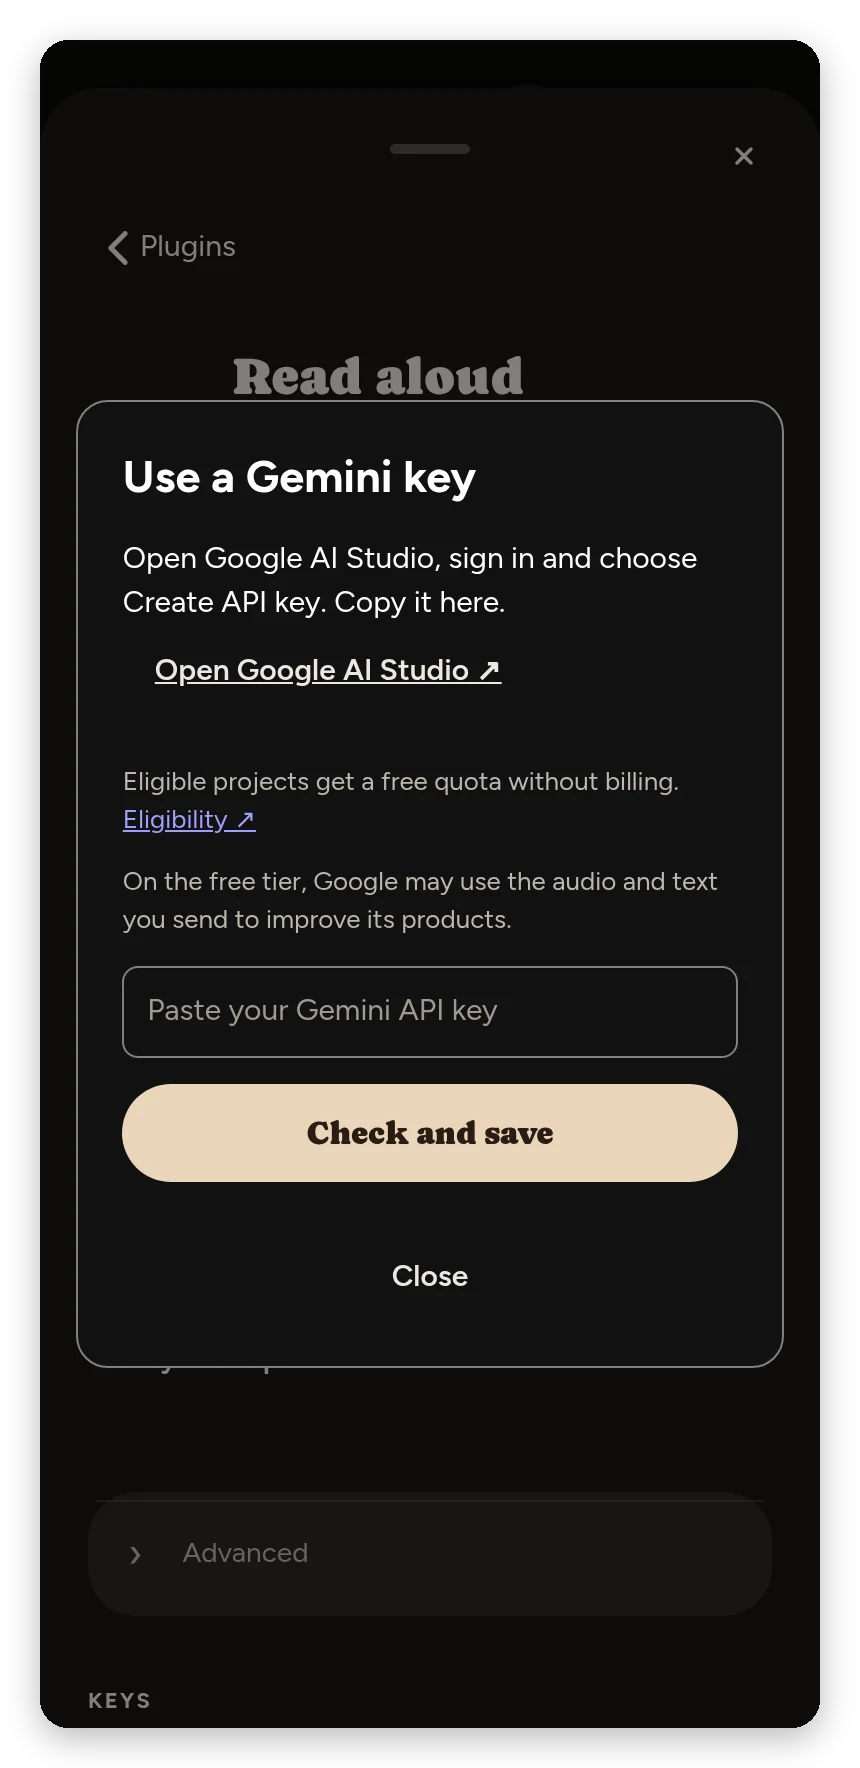
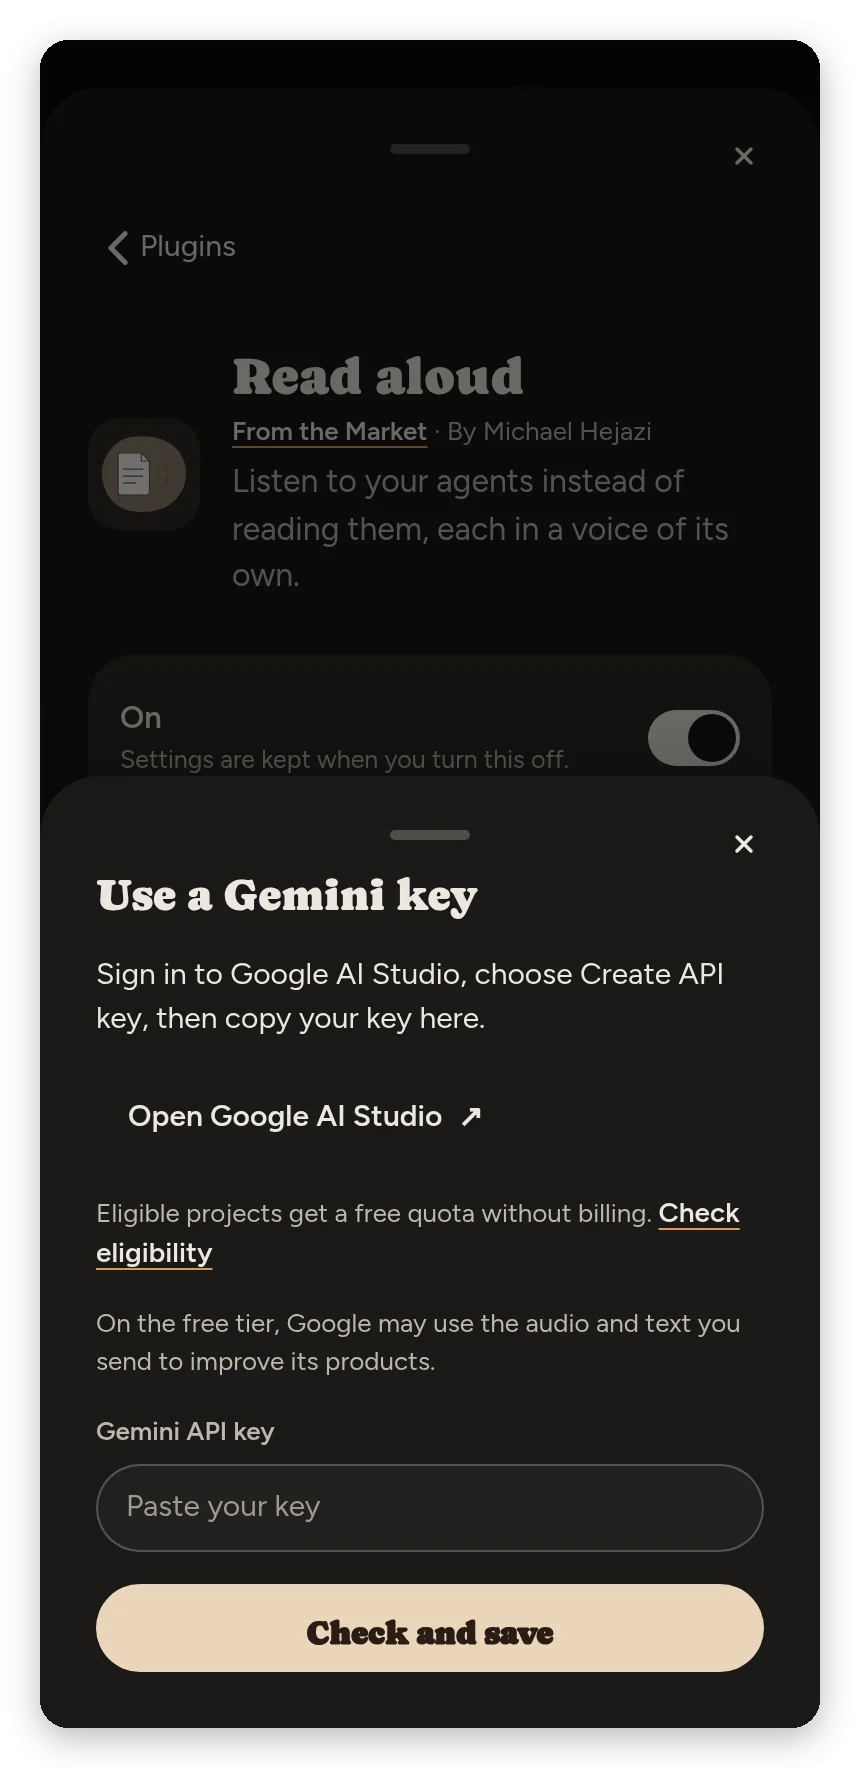
Use the shared key guide on browser fallback

diff --git a/page/guide.js b/page/guide.js
@@ -1,43 +1,67 @@
 const labels = { google: 'Using Google', openai: 'Using OpenAI', browser: 'Using this browser' }
 
 export function speechGuide(loam, plugin, benefit) {
-  const { h, host } = loam.ui
-  let dialog
-  loam.places.app.overlay.add({ id: plugin + '.key-guide', render: () => dialog ?? null })
-  loam.events.on('rendered', () => { if (dialog?.isConnected && !dialog.open) dialog.showModal() })
-  function close() { dialog?.close() }
+  const { h, host, icon, menuSurface } = loam.ui
+  let surface = null
+
+  loam.places.app.overlay.add({ id: plugin + '.key-guide', render: () => {
+    if (surface) surface.toggleAttribute('data-menu-centered', (globalThis.visualViewport?.width ?? globalThis.innerWidth) >= 700)
+    return surface
+  } })
+
+  function close() {
+    if (!surface) return
+    const field = surface.querySelector('input')
+    if (field) field.value = ''
+    surface = null
+    host.schedule()
+  }
+
   function open() {
-    if (dialog) return
-    const key = h('input', { type: 'password', required: true, autocomplete: 'off', spellcheck: false, placeholder: 'Paste your Gemini API key', 'aria-label': 'Gemini API key' })
-    const status = h('p', { class: 'note', role: 'status' })
-    const save = h('button', { type: 'submit', class: 'primary', text: 'Check and save' })
-    const form = h('form', { onsubmit: async event => {
+    if (surface) return
+    const input = h('input', { class: 'field-input', type: 'password', required: true, autocomplete: 'off', spellcheck: false, placeholder: 'Paste your key' })
+    const status = h('p', { class: 'note keys-check', role: 'status' })
+    const save = h('button', { type: 'submit', class: 'pillbtn primary', text: 'Check and save' })
+    const form = h('form', { class: 'keys-form speech-key-form', onsubmit: async event => {
       event.preventDefault()
       if (save.disabled) return
-      const value = key.value.trim()
-      if (!value) { key.focus(); return }
-      key.value = ''; save.disabled = true; status.textContent = 'Checking with Google…'
+      const value = input.value.trim()
+      if (!value) { input.focus(); return }
+      input.value = ''
+      save.disabled = true
+      status.textContent = 'Checking with Google…'
       try {
         const out = await host.api('PUT', '/keys/google', { values: { GEMINI_API_KEY: value } })
         if (!out.checked?.ok) throw new Error(out.checked?.why || 'Google could not verify the key.')
         loam.events.emit('speech.keys.changed', {})
-        key.hidden = save.hidden = true
-        status.textContent = 'Google accepted your key. It’s saved in Connections.'
-      } catch (error) { status.textContent = error.body?.error || error.message }
-      finally { save.disabled = false }
-    } }, h('h2', { text: 'Use a Gemini key' }),
-      h('p', { text: 'Open Google AI Studio, sign in and choose Create API key. Copy it here.' }),
-      h('a', { class: 'pillbtn content-mark', href: 'https://aistudio.google.com/apikey', target: '_blank', rel: 'noopener noreferrer', text: 'Open Google AI Studio ↗' }),
-      h('p', { class: 'note' }, 'Eligible projects get a free quota without billing. ', h('a', { href: 'https://aistudio.google.com/docs/terms#use-restrictions', target: '_blank', rel: 'noopener noreferrer', text: 'Eligibility ↗' })),
-      h('p', { class: 'note', text: 'On the free tier, Google may use the audio and text you send to improve its products.' }),
-      key, save, status, h('button', { type: 'button', class: 'pillbtn', text: 'Close', onclick: close }))
-    dialog = h('dialog', { key: plugin + '.key-guide', class: 'speech-key-guide', 'aria-label': 'Use a Gemini key' }, form)
-    const current = dialog
-    current.addEventListener('close', () => { key.value = ''; current.remove(); if (dialog === current) dialog = null; host.schedule() }, { once: true })
+        if (surface !== current) return
+        const done = h('button', { class: 'pillbtn primary', type: 'button', text: 'Done', onclick: close })
+        form.replaceChildren(h('div', { class: 'speech-key-success', role: 'status' },
+          h('span', { class: 'speech-key-check', 'aria-hidden': 'true' }, icon.check(22)),
+          h('h3', { class: 'display', text: 'Google is connected' }),
+          h('p', { class: 'note', text: 'Your shared key is saved in Connections. Both speech plugins can use it.' })), done)
+        done.focus({ preventScroll: true })
+      } catch (error) {
+        status.textContent = error.body?.error || error.message
+        save.disabled = false
+      }
+    } },
+    h('p', { text: 'Sign in to Google AI Studio, choose Create API key, then copy your key here.' }),
+    h('a', { class: 'pillbtn speech-studio', href: 'https://aistudio.google.com/apikey', target: '_blank', rel: 'noopener noreferrer' },
+      'Open Google AI Studio', h('span', { 'aria-hidden': 'true', text: '↗' })),
+    h('p', { class: 'note' }, 'Eligible projects get a free quota without billing. ',
+      h('a', { class: 'loginlink', href: 'https://aistudio.google.com/docs/terms#use-restrictions', target: '_blank', rel: 'noopener noreferrer', text: 'Check eligibility' })),
+    h('p', { class: 'note', text: 'On the free tier, Google may use the audio and text you send to improve its products.' }),
+    h('label', { class: 'keys-field' }, h('span', { class: 'keys-field-label', text: 'Gemini API key' }), input), status, save)
+    const current = menuSurface(h('section', { key: plugin + '.key-guide', class: 'speech-key-guide', 'aria-modal': 'true' }, form),
+      { title: 'Use a Gemini key', close, width: 424 })
+    surface = current
     host.schedule()
   }
-  const link = () => h('button', { class: 'speech-key-link', type: 'button', text: benefit, onclick: open })
-  const settings = provider => h('section', { class: 'rows speech-provider' },
-    h('strong', { role: 'status', text: labels[provider] ?? 'Checking speech provider…' }), link())
+
+  const link = () => h('button', { class: 'quietlink speech-key-link', type: 'button', text: benefit, onclick: open })
+  const settings = (provider, active = provider) => h('section', { class: 'rows speech-provider' },
+    h('strong', { class: 'setrow-title', role: 'status', text: labels[active] ?? 'Checking speech provider…' }),
+    provider === 'browser' ? link() : null)
   return { open, close, link, settings }
 }

diff --git a/page/style.css b/page/style.css
@@ -347,11 +347,16 @@
 .file-speech .file-speech-close { color:var(--latte-foam-ink); }
 [data-menu-surface].voice-menu { width:300px; }
 
-.speech-provider { display: grid; gap: .35rem; }
-.speech-key-link { display: block; width: fit-content; border: 0; background: transparent; color: var(--muted, currentColor); font: inherit; font-size: .82rem; padding: .25rem 0; text-align: left; text-decoration: underline; text-underline-offset: .2em; cursor: pointer; }
-.speech-key-guide { color: var(--ink, CanvasText); background: var(--paper, Canvas); border: 1px solid var(--line, GrayText); border-radius: 16px; width: min(25rem, 92vw); max-height: 90dvh; padding: 1.4rem; }
-.speech-key-guide::backdrop { background: rgb(0 0 0 / .45); }
-.speech-key-guide form { display: grid; gap: .8rem; }
-.speech-key-guide :is(h2,p) { margin: 0; }
-.speech-key-guide input { color: inherit; background: transparent; padding: .7rem; border: 1px solid var(--line, GrayText); border-radius: 8px; }
-.speech-key-guide [hidden] { display: none; }
+.speech-provider { padding: var(--space-lg) var(--space-xl); gap: var(--space-xs); }
+.speech-key-link { width: fit-content; text-align: start; }
+.speech-key-form { padding: 0 var(--space-xs) var(--space-xs); gap: var(--space-lg); }
+.speech-key-form p, .speech-key-success h3 { margin: 0; }
+.speech-key-form > p:first-child { font-size: 15px; line-height: 1.5; }
+.speech-key-form .speech-studio { display: inline-flex; align-self: flex-start; align-items: center; justify-content: center; gap: var(--space-sm); text-decoration: none; }
+.speech-key-form .keys-check:empty { display: none; }
+.speech-key-success { display: grid; justify-items: center; gap: var(--space-md); padding: var(--space-lg); text-align: center; }
+.speech-key-check { display: grid; place-items: center; width: 44px; height: 44px; border-radius: 50%; background: var(--latte-espresso); color: var(--latte-espresso-ink); }
+@media (prefers-reduced-motion: no-preference) {
+  .speech-key-check { animation: speechKeyConnected 280ms var(--ease-standard) both; }
+  @keyframes speechKeyConnected { from { transform: scale(.76); opacity: 0; } to { transform: scale(1); opacity: 1; } }
+}

diff --git a/PLUGIN.md b/PLUGIN.md
@@ -1,7 +1,7 @@
 ---
 id: read-aloud
 name: Read aloud
-version: 1.2.0
+version: 1.2.1
 author: Michael Hejazi
 api: 0
 kind: [extension]
@@ -44,7 +44,7 @@ Press the speaker under a reply or in Files and choose Listen. With no key, the 
 
 ## What you need, and what leaves your server
 
-Loam uses a Google key first, then an OpenAI key, then the browser. A provider error stays with that provider. Open Settings › Plugins › Read aloud to see the provider. Follow the free Gemini key link, sign in to Google AI Studio, create a key and paste it in the guide. Loam checks it and saves it in Settings › Connections › API keys for both plugins.
+Loam uses a Google key first, then an OpenAI key, then the browser. A provider error stays with that provider. Open Settings › Plugins › Read aloud to see the provider. When the plugin is using this browser, follow the free Gemini key link, sign in to Google AI Studio, create a key and paste it in the guide. Loam checks it and saves it in Settings › Connections › API keys for both plugins.
 
 Eligible projects get a free quota without setting up billing. Google may use free-tier audio and text to improve its products. Check [availability](https://aistudio.google.com/docs/available-regions) and [your limits](https://aistudio.google.com/rate-limit).
 

diff --git a/README.md b/README.md
@@ -36,7 +36,7 @@ you chose for that agent. Your notes in Files can be read aloud too.
 
 Press the speaker under a reply or in Files and choose Listen. With no key, the player uses your browser’s voice and reads the fixed skip notices for tables and diagrams. A server key adds Brief and generated descriptions.
 
-Open Settings › Plugins › Read aloud to see the provider. Follow the free Gemini key link, sign in to Google AI Studio, create a key and paste it in the guide. Loam checks it and saves it in Settings › Connections › API keys for both plugins.
+Open Settings › Plugins › Read aloud to see the provider. When the plugin is using this browser, follow the free Gemini key link, sign in to Google AI Studio, create a key and paste it in the guide. Loam checks it and saves it in Settings › Connections › API keys for both plugins.
 
 ## What you need, and what leaves your server
 
@@ -75,7 +75,7 @@ is instant. Agent voices are on each agent's profile.
 In Settings › Plugins, with its link:
 
 ```
-https://github.com/michaelhejazi/loam-read-aloud/tree/v1.2.0
+https://github.com/michaelhejazi/loam-read-aloud/tree/v1.2.1
 ```
 
 ### For builders
